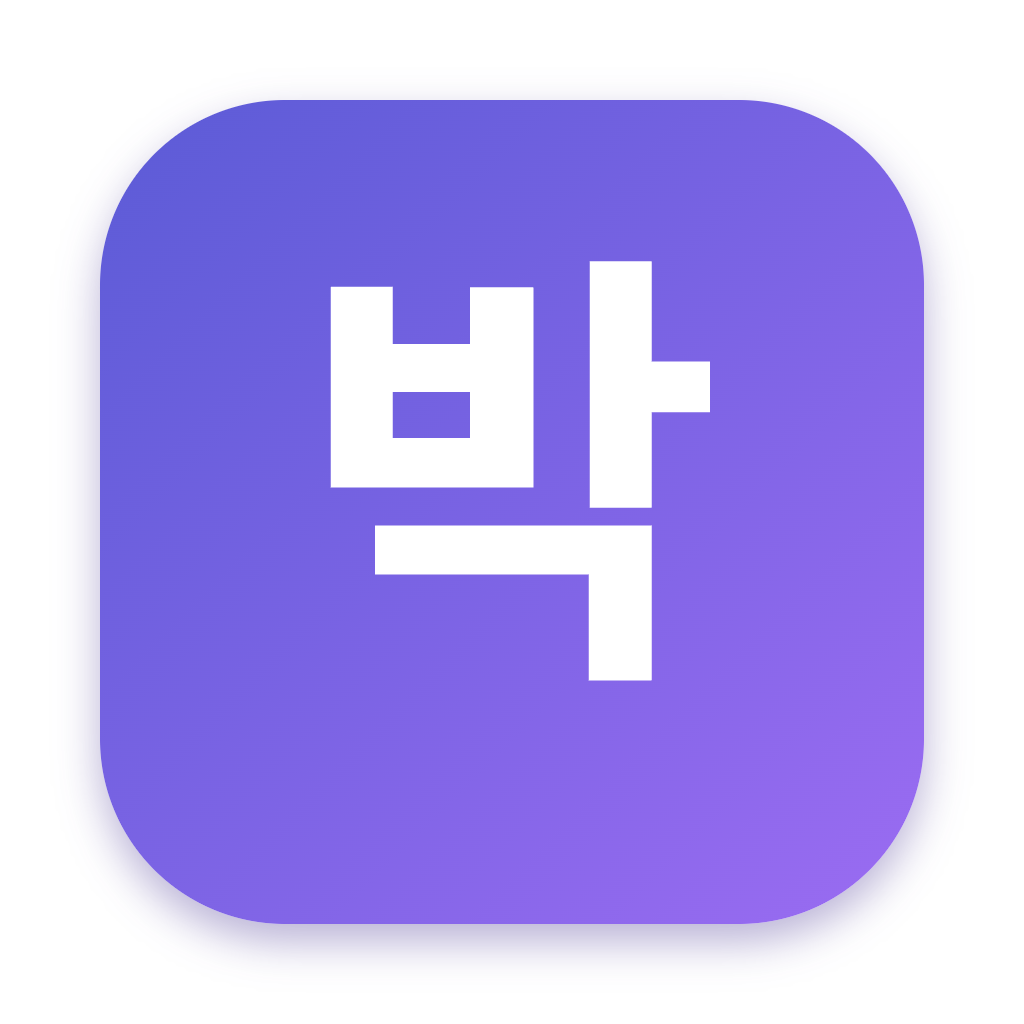
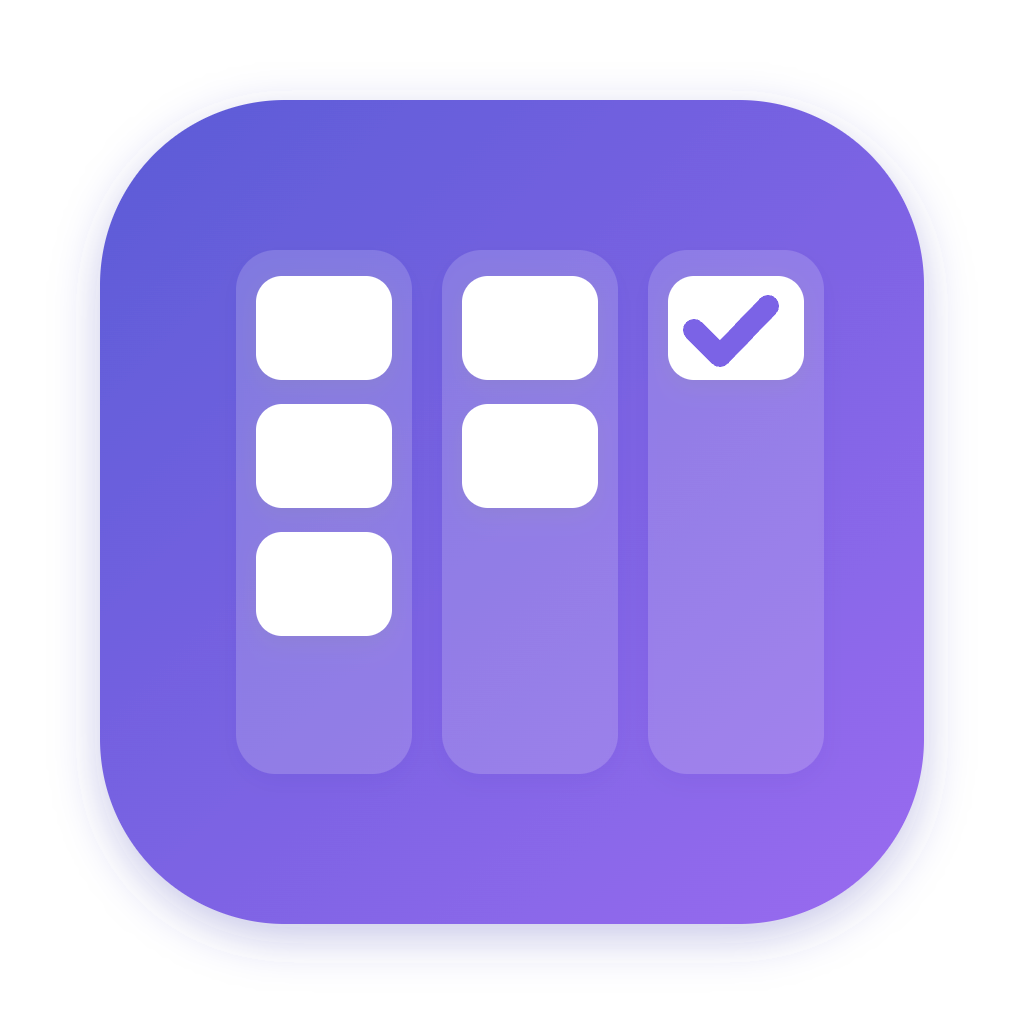
앱 아이콘을 칸반 보드 모양으로 변경, 웹사이트 작업 이력 섹션에 스크린샷 추가
- 아이콘: 보라색 바탕은 그대로, 가운데를 할 일·진행·완료 칸반 보드로 바꿈 (웹사이트 로고·파비콘도 함께)
- 작업 이력 섹션: 터미널 Claude Code 화면과 박프로 세션 목록 화면 추가

Changed region(s): [[0.2188, 0.2188, 0.8125, 0.7812]]

diff --git a/website/index.html b/website/index.html
@@ -206,6 +206,10 @@
         <p class="eyebrow">작업 이력</p>
         <h2>터미널에서 흩어지던 AI 작업,<br />이제 프로젝트마다 남습니다.</h2>
         <p class="sub">터미널에서 Claude Code로 일하면 창을 닫는 순간 무엇을 시켰고 무엇이 바뀌었는지 다시 찾기 어렵습니다. 박프로는 모든 에이전트 작업을 프로젝트별 기록으로 남겨 바로 해결합니다.</p>
+        <figure class="shot shot-wide">
+          <img src="images/terminal.webp" width="1500" height="617" loading="lazy" alt="터미널에서 Claude Code에 사업계획 문서의 급한 일 세 가지를 물어본 화면" />
+          <figcaption>터미널의 Claude Code — 답은 잘 받지만, 창을 닫으면 이 대화를 다시 찾기 어렵습니다.</figcaption>
+        </figure>
         <div class="vs">
           <div class="vs-col vs-before">
             <h3>터미널에서는</h3>
@@ -231,6 +235,10 @@
           <li><b>진행 상태 한눈에</b><br />실행 중·승인 대기 세션이 목록에 표시됩니다.</li>
           <li><b>비용·도구 사용 기록</b><br />세션별 비용과 도구 사용 횟수를 확인합니다.</li>
         </ul>
+        <figure class="shot shot-wide">
+          <img src="images/sessions.webp" width="1440" height="900" loading="lazy" alt="박프로 에이전트 화면. 왼쪽에 세션 목록이 시간·메시지 수와 함께 쌓여 있고, 오른쪽에 선택한 세션의 대화와 도구 실행 기록이 보인다" />
+          <figcaption>박프로의 에이전트 화면 — 왼쪽 세션 목록에서 지난 작업을 골라 대화와 도구 실행 기록을 그대로 다시 봅니다.</figcaption>
+        </figure>
       </div>
     </section>
 
